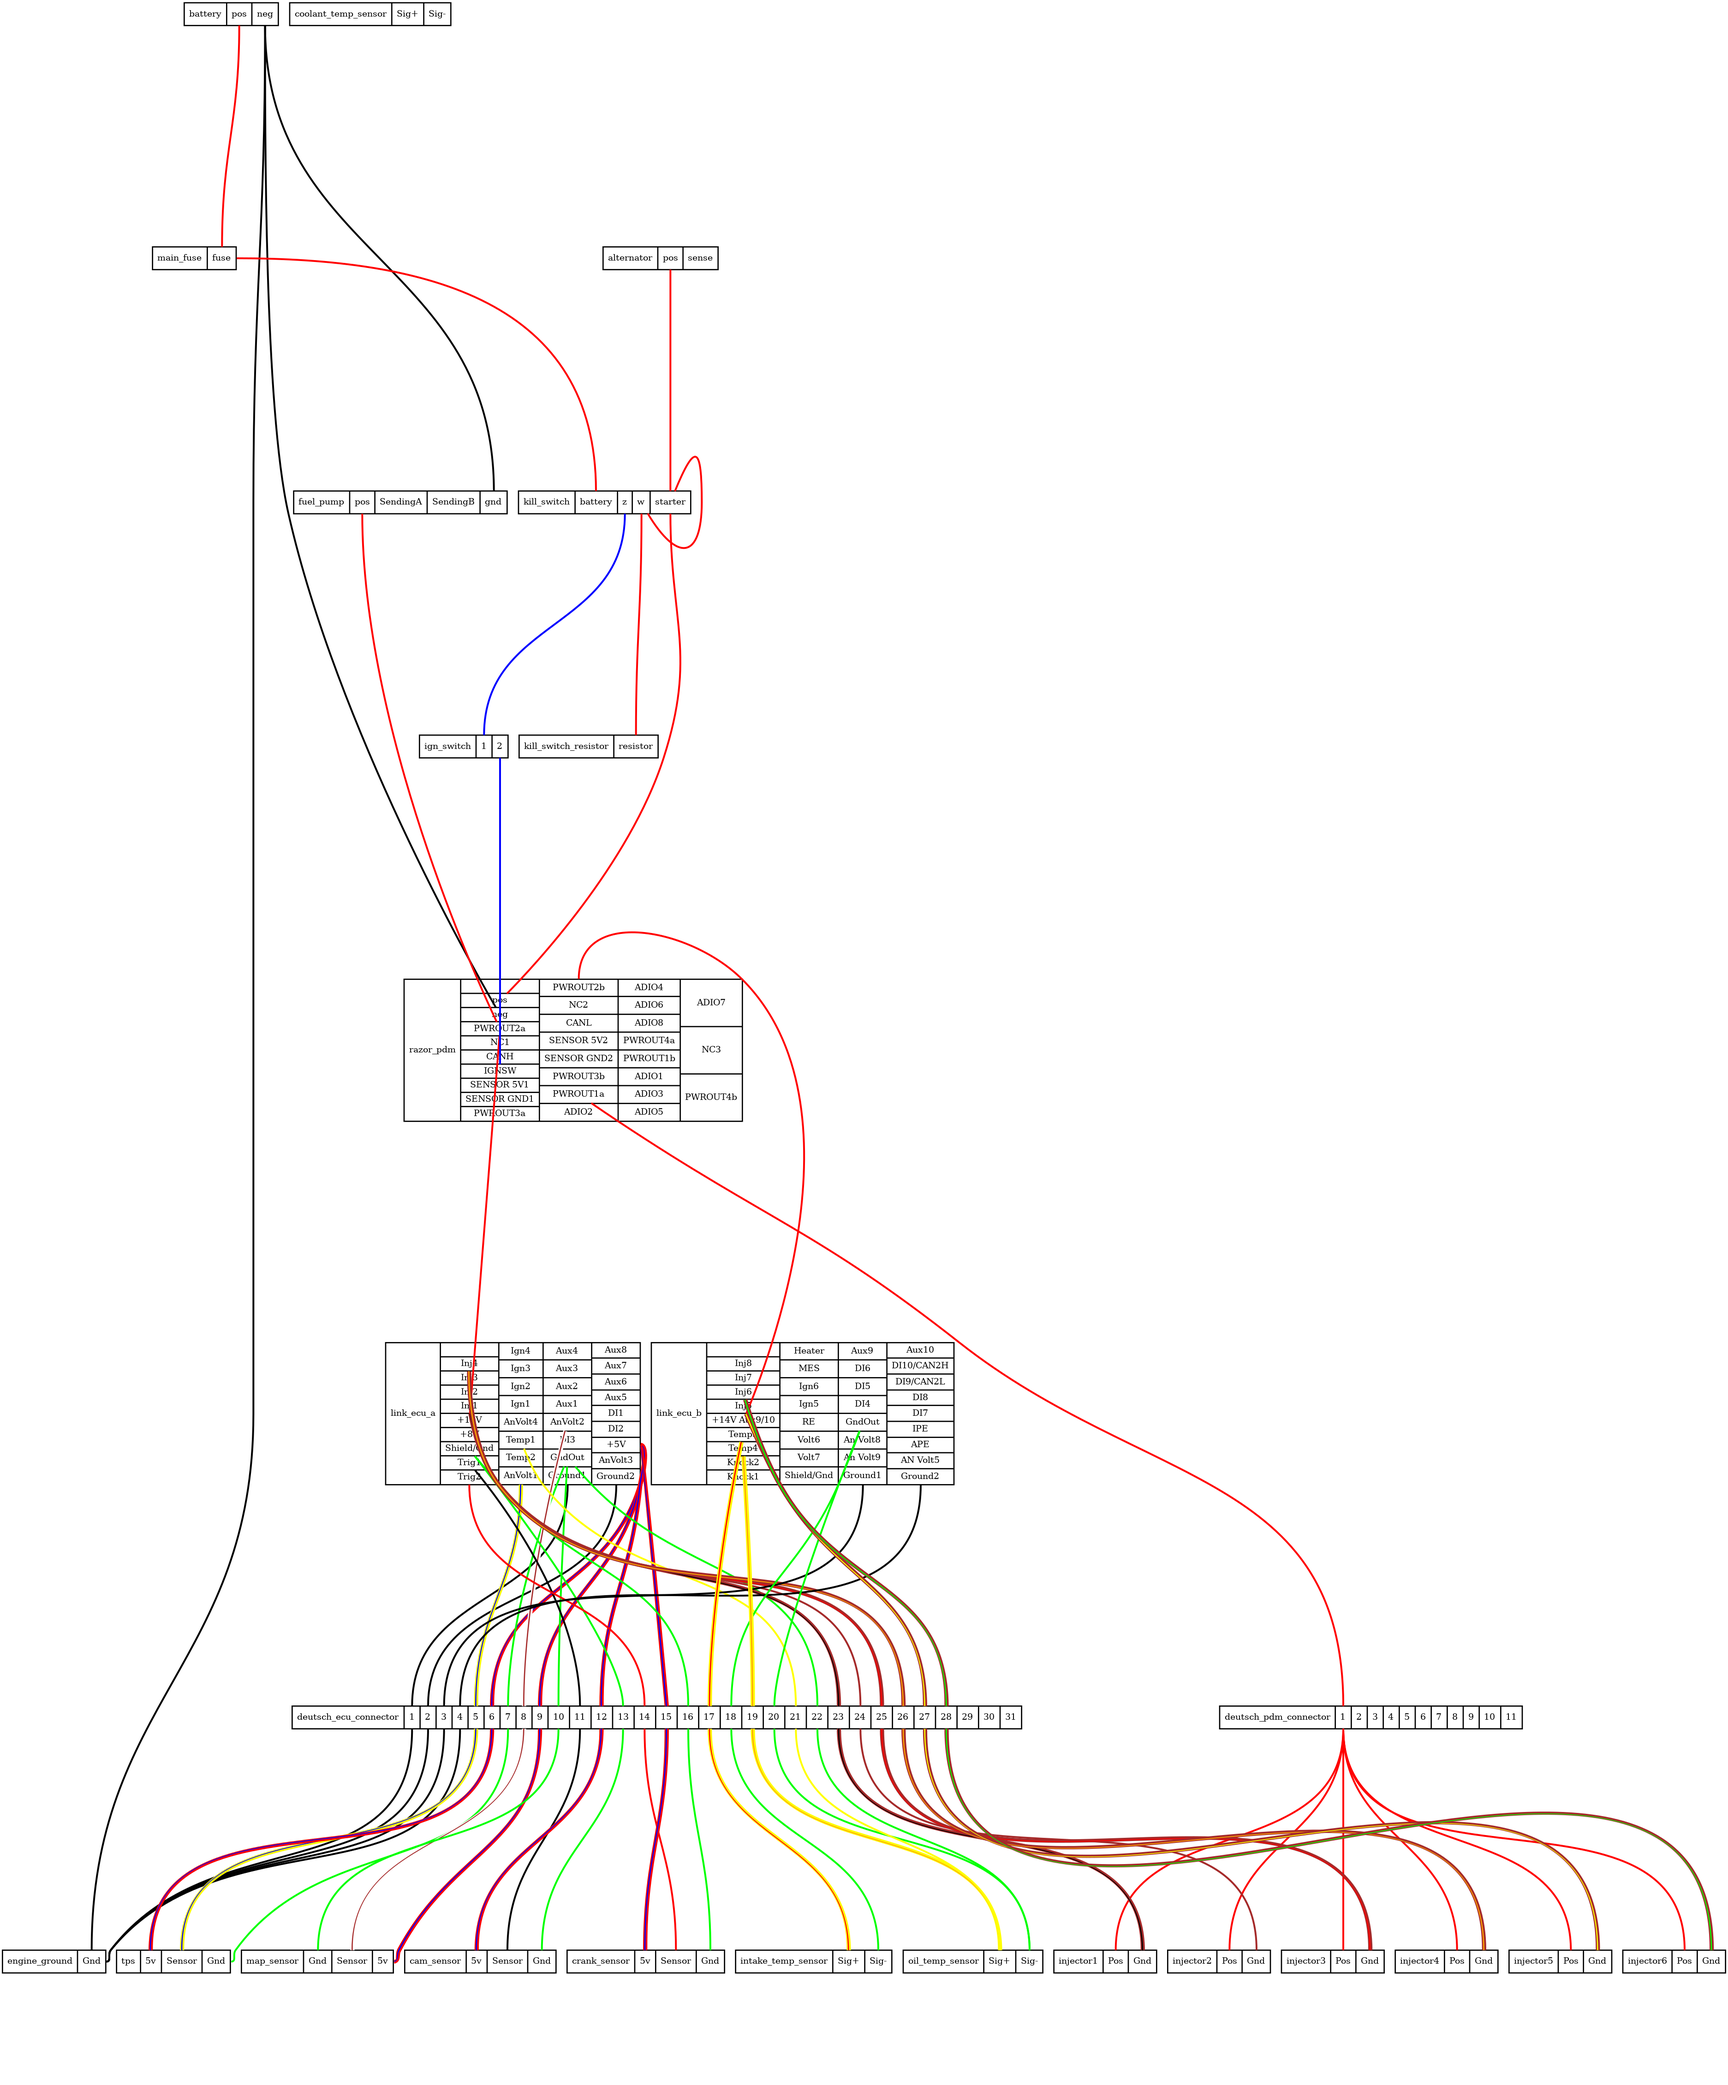
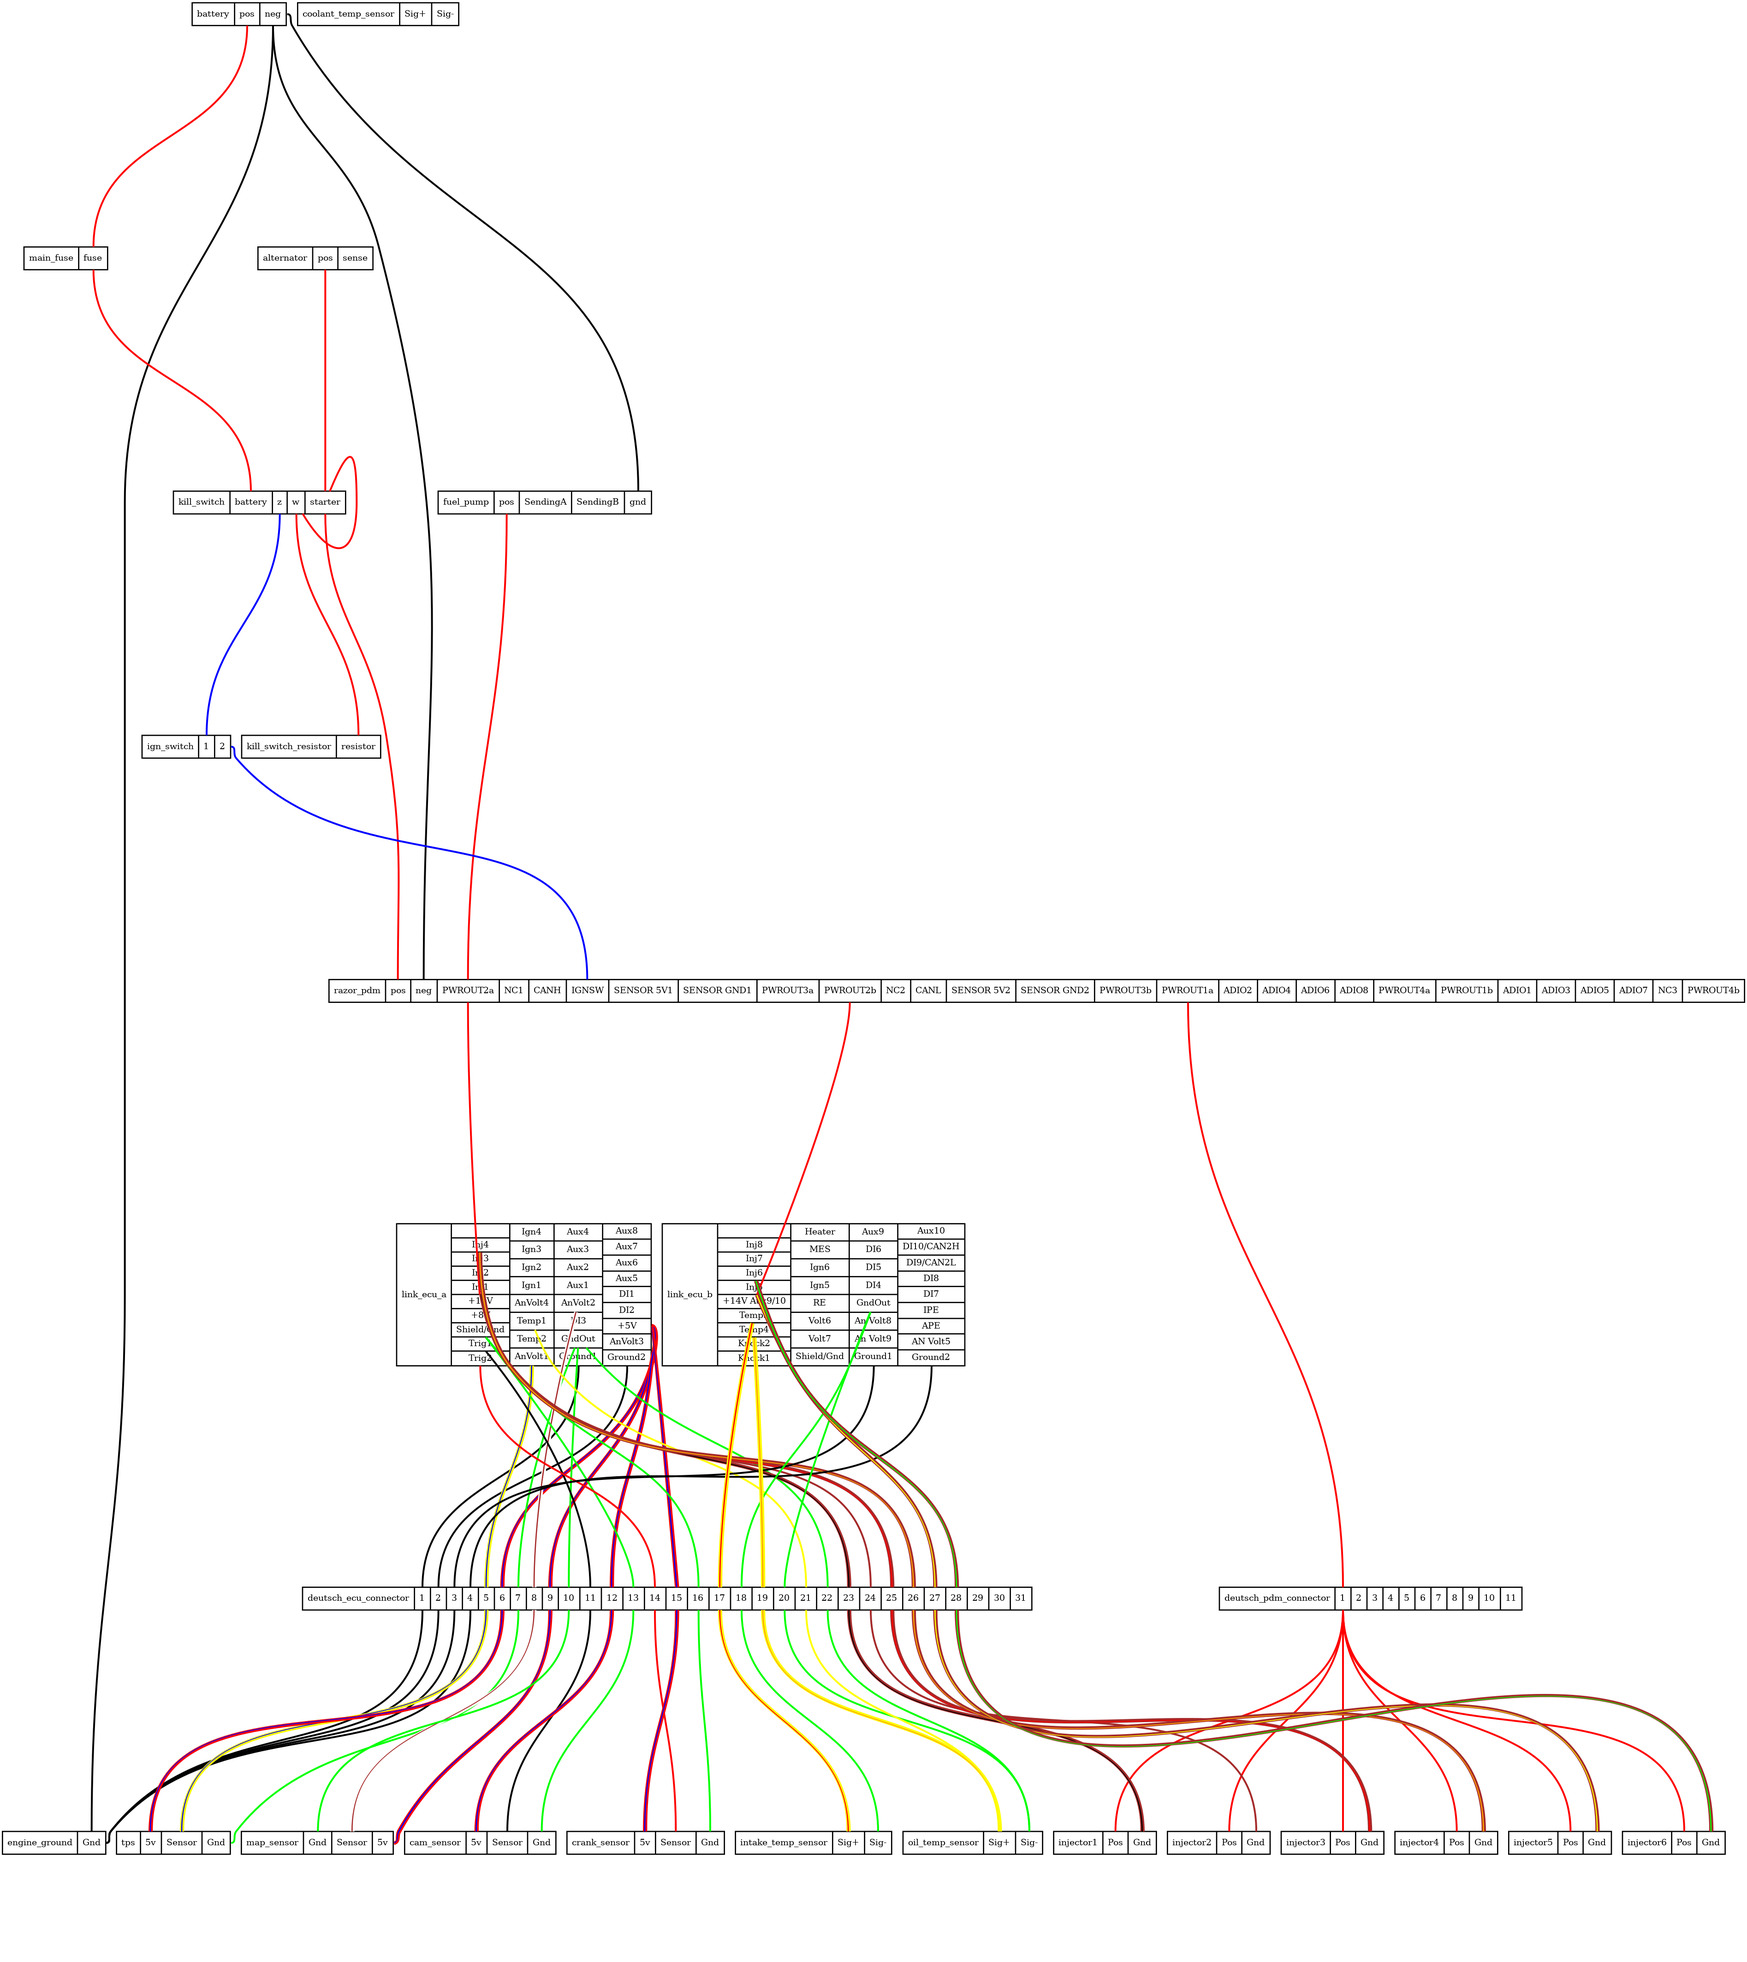
Refactor how labels are overriden

diff --git a/corrado_wiring.py b/corrado_wiring.py
@@ -40,11 +40,8 @@ def BuildLinkLabel(name, pin_names):
 
 
 class Node(object):
-  def __init__(self, name, pin_names):
-    if name.startswith('link_ecu') or name.startswith('razor_pdm'):
-      label = BuildLinkLabel(name, pin_names)
-    else:
-      label = BuildLabel(name, pin_names)
+  def __init__(self, name, pin_names, label_func=BuildLabel):
+    label = label_func(name, pin_names)
     self.node = G.add_node(name, label=label, shape='record', style='bold')
 
 
@@ -162,8 +159,8 @@ Node('razor_pdm', [
     'PWROUT1b', 'ADIO1', 'ADIO3', 'ADIO5', 'ADIO7', 'NC3', 'PWROUT4b'
 ])
 Node('fuel_pump', ['pos', 'SendingA', 'SendingB', 'gnd'])
-Node('link_ecu_a', LINK_ECU_A_PIN_COLOR_MAP.keys())
-Node('link_ecu_b', LINK_ECU_B_PIN_COLOR_MAP.keys())
+Node('link_ecu_a', LINK_ECU_A_PIN_COLOR_MAP.keys(), label_func=BuildLinkLabel)
+Node('link_ecu_b', LINK_ECU_B_PIN_COLOR_MAP.keys(), label_func=BuildLinkLabel)
 Node('engine_ground', ['Gnd'])
 Node('deutsch_ecu_connector', list(range(1,32)))
 Node('deutsch_pdm_connector', list(range(1,12)))
